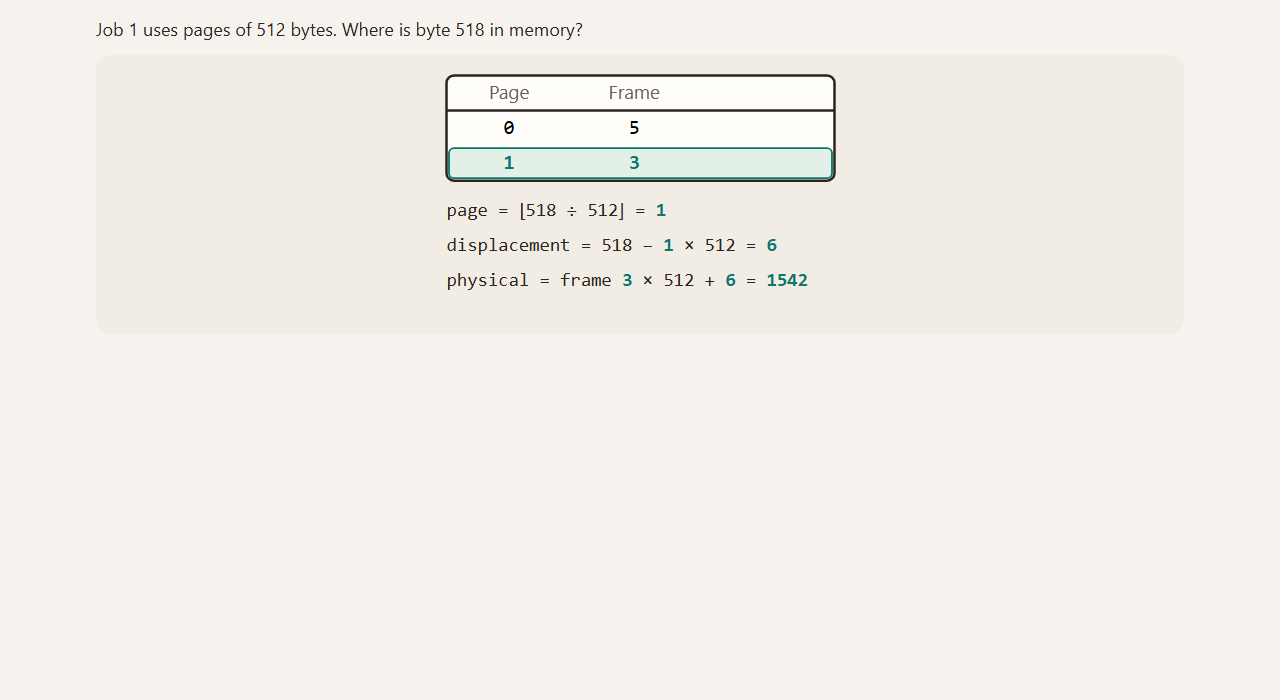
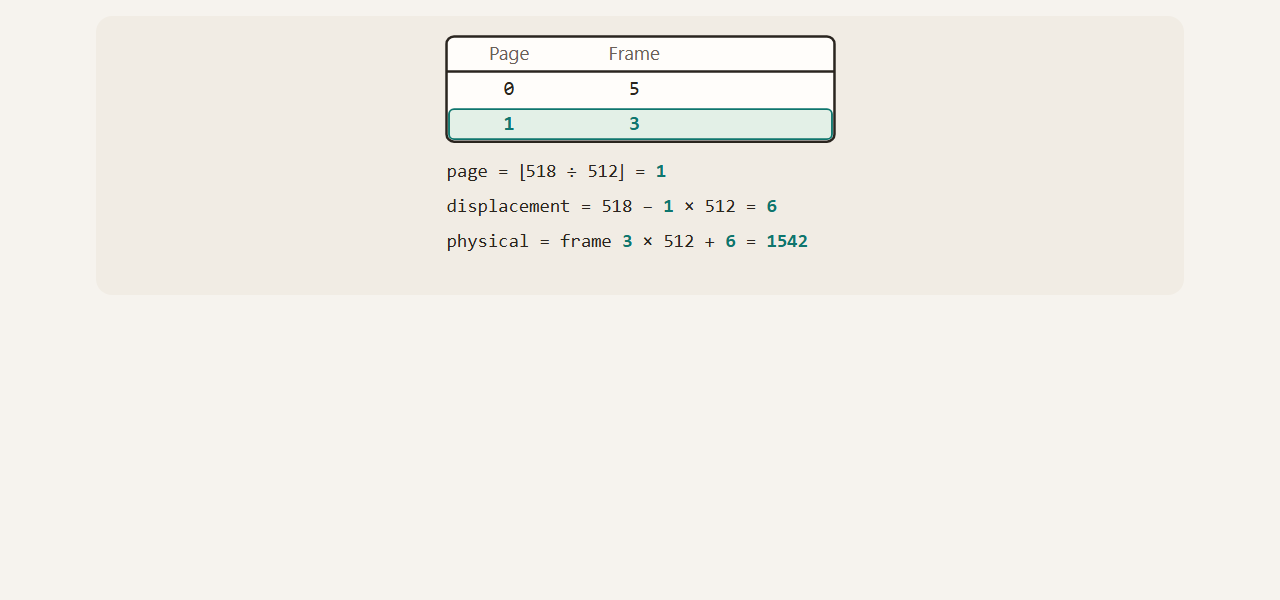
fix(figures): memory-table cells take the theme's text colour (dark theme) (#605)

Changed region(s): [[0.0625, 0.03, 0.6562, 0.36], [0.3438, 0.39, 0.625, 0.42]]

diff --git a/src/kinds/shared/figures/MemoryTableFigure.tsx b/src/kinds/shared/figures/MemoryTableFigure.tsx
@@ -48,7 +48,7 @@ export function MemoryTableFigure({ table, size, rows, address, unit = "", revea
     (show ? ` ${partName} ${show.part}, displacement ${show.displacement}, ${atName} ${show.at}, physical address ${show.physical}.` : "");
 
   const cell = (name: string, x: number, y: number, text: string, extra = "", anchor: "middle" | "start" = "middle") => (
-    <text x={x} y={y} textAnchor={anchor} className={`${styles.pin} mono ${extra}`} data-cell={name}>
+    <text x={x} y={y} textAnchor={anchor} className={`${styles.label} ${extra}`} data-cell={name}>
       {text}
     </text>
   );
